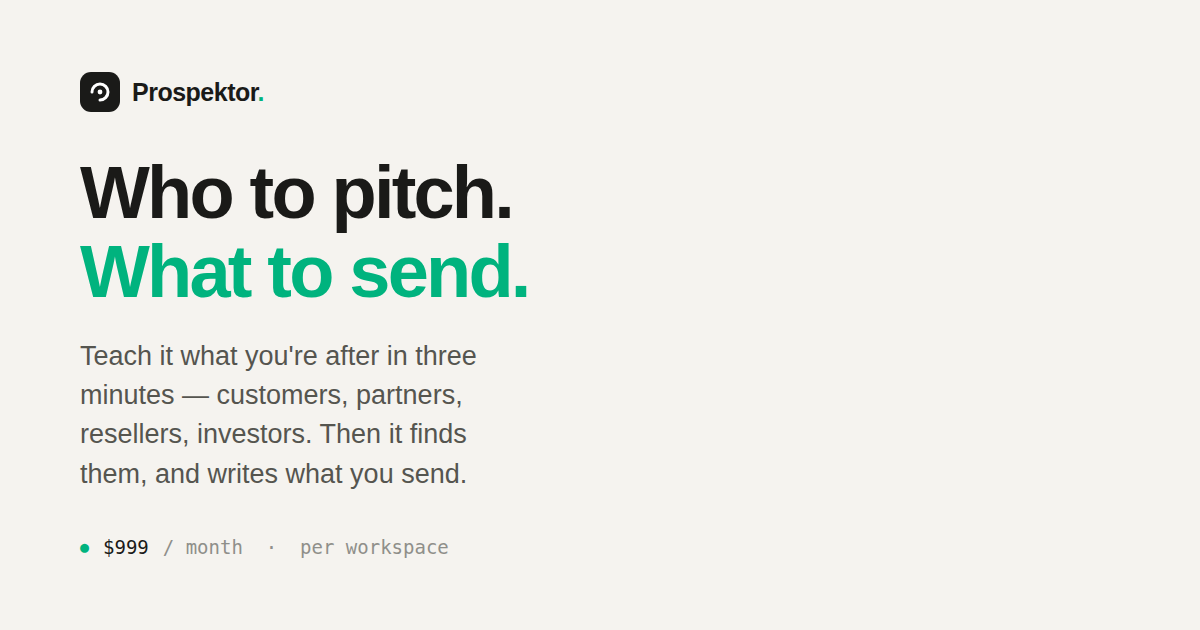
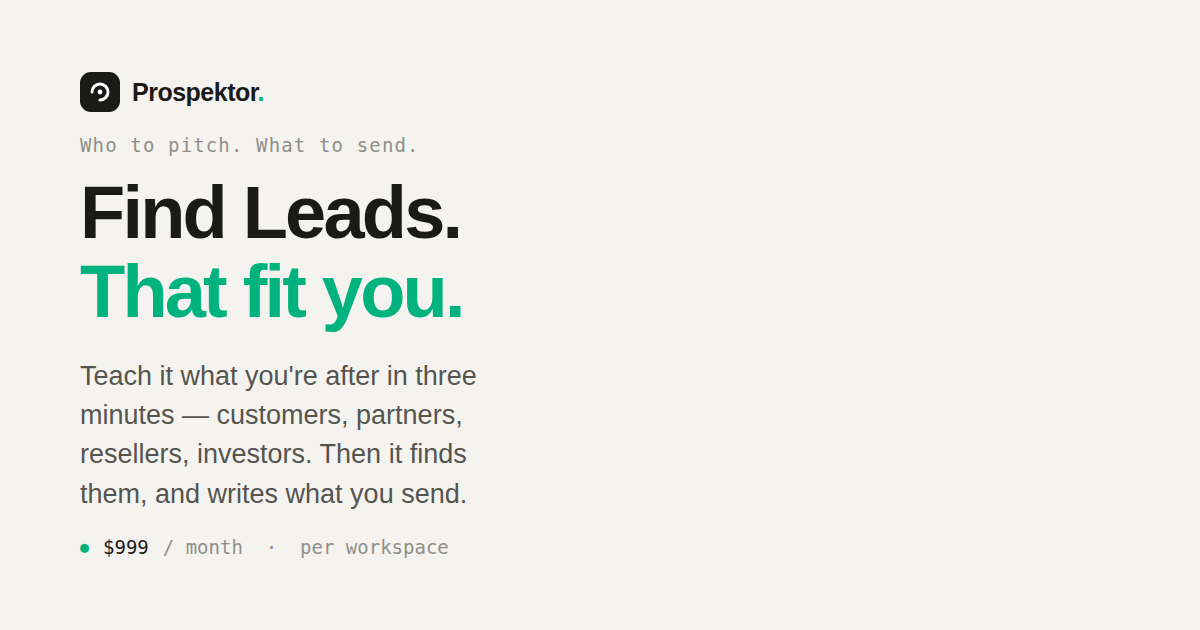
#453: the h1 answers the question instead of asking it
The operator's shape, mocked up in devtools on the live page and taken
verbatim — pill, line break and capitalisation included.

"Who to pitch. What to send." had been the h1 since #153. It is a good line and
it stays on the page, but it is a riddle rather than a promise: it names the two
questions without answering either, so the reader #450 was written for — someone
who does not already know what a pitch is made of — could not tell from the
largest type on the site what they would be buying. That is the same defect #450
fixed one line further down, left standing at the top.

  tag pill   Who to pitch. What to send.   (was "Prospektor Studio", which the
                                            nav already carries twice)
  h1         Find Leads. / That fit you.
  sub        unchanged

Three things this settles that were previously loose:

- The h1 now agrees with the <title>, "Prospektor · Leads that fit you". A page
  whose headline and search result say different things is the one shape a
  result should never have, and that is what this was.
- "Leads" is the word people search and the word the operator reached for
  unprompted. "Pitch" is the word the trade uses.
- The accent stays on the second line, which is #153's composition: the emerald
  lands on the half that is hard. Anyone can sell you a list.

The sitewide social card follows the hero, because a card showing a headline the
page no longer has is exactly the drift #450 built data/og-cards.json to catch —
[…]

Changed region(s): [[0.0617, 0.2111, 0.4625, 0.8143]]

diff --git a/test/pages.test.js b/test/pages.test.js
@@ -128,13 +128,44 @@ describe('the header, and the pages behind it', () => {
         `#${id} is gone from the homepage — Stripe's cancel_url and every old deep link land on it`);
   });
 
-  test('the homepage frames the two questions and reaches both pages', () => {
+  // #453 moved the two questions out of the h1 and into the deck under it: the
+  // h1 is the promise now ("Find leads that fit you."), which is what the
+  // <title> has always said and what a stranger can act on. #153's requirement
+  // is unchanged and is what this still holds — the frame must be ON the
+  // homepage, prominently, and must reach both pages. Scoped to the hero
+  // deliberately: the header carries the same two strings on every page of the
+  // site, so a page-wide match would pass on the nav alone and assert nothing.
+  test('the homepage frames the two questions in the hero, and reaches both pages', () => {
     const home = read('index.html');
+    const hero = home.match(/<section class="hero"[^>]*>([\s\S]*?)<\/section>/);
+    assert.ok(hero, 'the homepage has no hero section');
+    assert.ok(/Who to pitch\./.test(hero[1]) && /What to send\./.test(hero[1]),
+      'the two questions have left the hero — the nav, both product pages and the halves '
+      + 'section are all built on that frame (#153), so it may be demoted but not dropped');
     const h1 = home.match(/<h1>([\s\S]*?)<\/h1>/);
-    assert.ok(h1 && /Who to pitch\./.test(h1[1]) && /What to send\./.test(h1[1]),
-      'the homepage h1 is no longer the two questions (#153)');
+    assert.ok(h1 && h1[1].replace(/<[^>]*>/g, '').trim().length > 8,
+      'the homepage has no h1 worth reading');
     assert.match(home, /href="\/who-to-pitch\/"[^]*href="\/what-to-send\/"/,
       'the two halves do not both link through to their pages');
+  });
+
+  // #453. The <title> is "Prospektor · <tagline>" and the h1 is the same
+  // promise; they said different things until this change, which is the one
+  // shape a search result should never have. Derived from site.json — editing
+  // the tagline is allowed and editing the h1 is allowed, drifting them apart
+  // silently is not.
+  // Punctuation-insensitive on purpose: the h1 breaks the promise across two
+  // lines with a full stop in the middle ("Find Leads." / "That fit you."), and
+  // the tagline is one phrase. Comparing the WORDS is the claim; comparing the
+  // typography would fail on a line break somebody was right to add.
+  const words = t => t.replace(/<[^>]*>/g, ' ').toLowerCase()
+    .replace(/[^a-z0-9]+/g, ' ').trim();
+  test('the homepage h1 says what the title says', () => {
+    const h1 = words(read('index.html').match(/<h1>([\s\S]*?)<\/h1>/)[1]);
+    const key = words(site.tagline).replace(/^your /, '');
+    assert.ok(h1.includes(key),
+      `the h1 (${JSON.stringify(h1)}) no longer carries the tagline the <title> shows `
+      + `(${JSON.stringify(site.tagline)}) — a page whose headline and search result disagree (#453)`);
   });
 
   // #137 deferred four scripts (F6) and left /help/'s alone, because #136's

diff --git a/test/audit-live.js b/test/audit-live.js
@@ -459,9 +459,23 @@ const check = (claim, ok, detail) => { R.push({ claim, ok, detail }); console.lo
         r.status === 200 && /<h1[^>]*>/.test(body), r.status + (r.ok ? '' : ' — ' + item.url));
     }
 
-    check('the homepage h1 asks both questions (#153)',
-      /Who to pitch\./.test(home) && /What to send\./.test(home),
-      (home.match(/<h1>([\s\S]*?)<\/h1>/) || [, '(none)'])[1].replace(/\s+/g, ' ').trim());
+    // #453: the two questions moved out of the h1 and into the deck under it,
+    // so this asks production the two things that actually matter — the frame
+    // is still in the hero (#153), and the h1 is the promise the <title> makes.
+    const liveHero = (home.match(/<section class="hero"[^>]*>([\s\S]*?)<\/section>/) || [, ''])[1];
+    check('the two questions are still in the live hero (#153)',
+      /Who to pitch\./.test(liveHero) && /What to send\./.test(liveHero),
+      (liveHero.match(/<div class="hero-ai-tag">([\s\S]*?)<\/div>/) || [, '(none)'])[1]
+        .replace(/<[^>]*>/g, '').replace(/\s+/g, ' ').trim());
+    // Words, not typography: the h1 breaks the promise over two lines with a
+    // full stop in the middle, and the tagline is one phrase.
+    const liveWords = t => t.replace(/<[^>]*>/g, ' ').toLowerCase()
+      .replace(/[^a-z0-9]+/g, ' ').trim();
+    const liveH1 = (home.match(/<h1>([\s\S]*?)<\/h1>/) || [, '(none)'])[1];
+    const liveTitle = (home.match(/<title>([^<]*)<\/title>/) || [, ''])[1];
+    check('and the live h1 says what the live <title> says (#453)',
+      liveWords(liveH1).includes(liveWords(liveTitle.split('·').pop() || '').replace(/^your /, '')),
+      liveH1.replace(/<[^>]*>/g, ' ').replace(/\s+/g, ' ').trim() + '  ·  ' + liveTitle);
 
     // The trap CLAUDE.md names: a pricing page that looks right and quietly
     // degrades to the multi-step /checkout/ page is the regression that

diff --git a/tools/og.js b/tools/og.js
@@ -174,6 +174,14 @@ function siteCard() {
       letter-spacing: -0.038em; max-width: 15ch;
     }
     h1 .accent { color: #00B37E; }
+    /* #453: the two questions ride above the headline here exactly as they ride
+       in the hero's tag pill — the card is the hero in picture form, and a card
+       showing a headline the page no longer has is the drift data/og-cards.json
+       and test/assets.test.js exist to catch. */
+    .frame {
+      display: block; font-family: 'Mono', monospace; font-size: 19px;
+      letter-spacing: 0.06em; color: #8F8F8A; margin-bottom: 18px;
+    }
     p {
       font-size: 27px; line-height: 1.45; color: #55554F;
       max-width: 30ch; margin-top: 26px;
@@ -190,7 +198,8 @@ function siteCard() {
       <span class="word">Prospektor<span class="dot">.</span></span>
     </div>
     <div>
-      <h1>Who to pitch.<br><span class="accent">What to send.</span></h1>
+      <span class="frame">Who to pitch. What to send.</span>
+      <h1>Find Leads.<br><span class="accent">That fit you.</span></h1>
       <p>${esc(TAGLINE_LINE)}</p>
     </div>
     <div class="foot">

diff --git a/src/assets/css/main.css b/src/assets/css/main.css
@@ -143,6 +143,7 @@ nav {
 
 .hero h1 .accent { color: var(--accent); }
 
+
 .hero-sub {
   font-size: 1.2rem; color: var(--ink-mid);
   /* 560, not 520 (#450): the sentence gained the list of target types, and at
